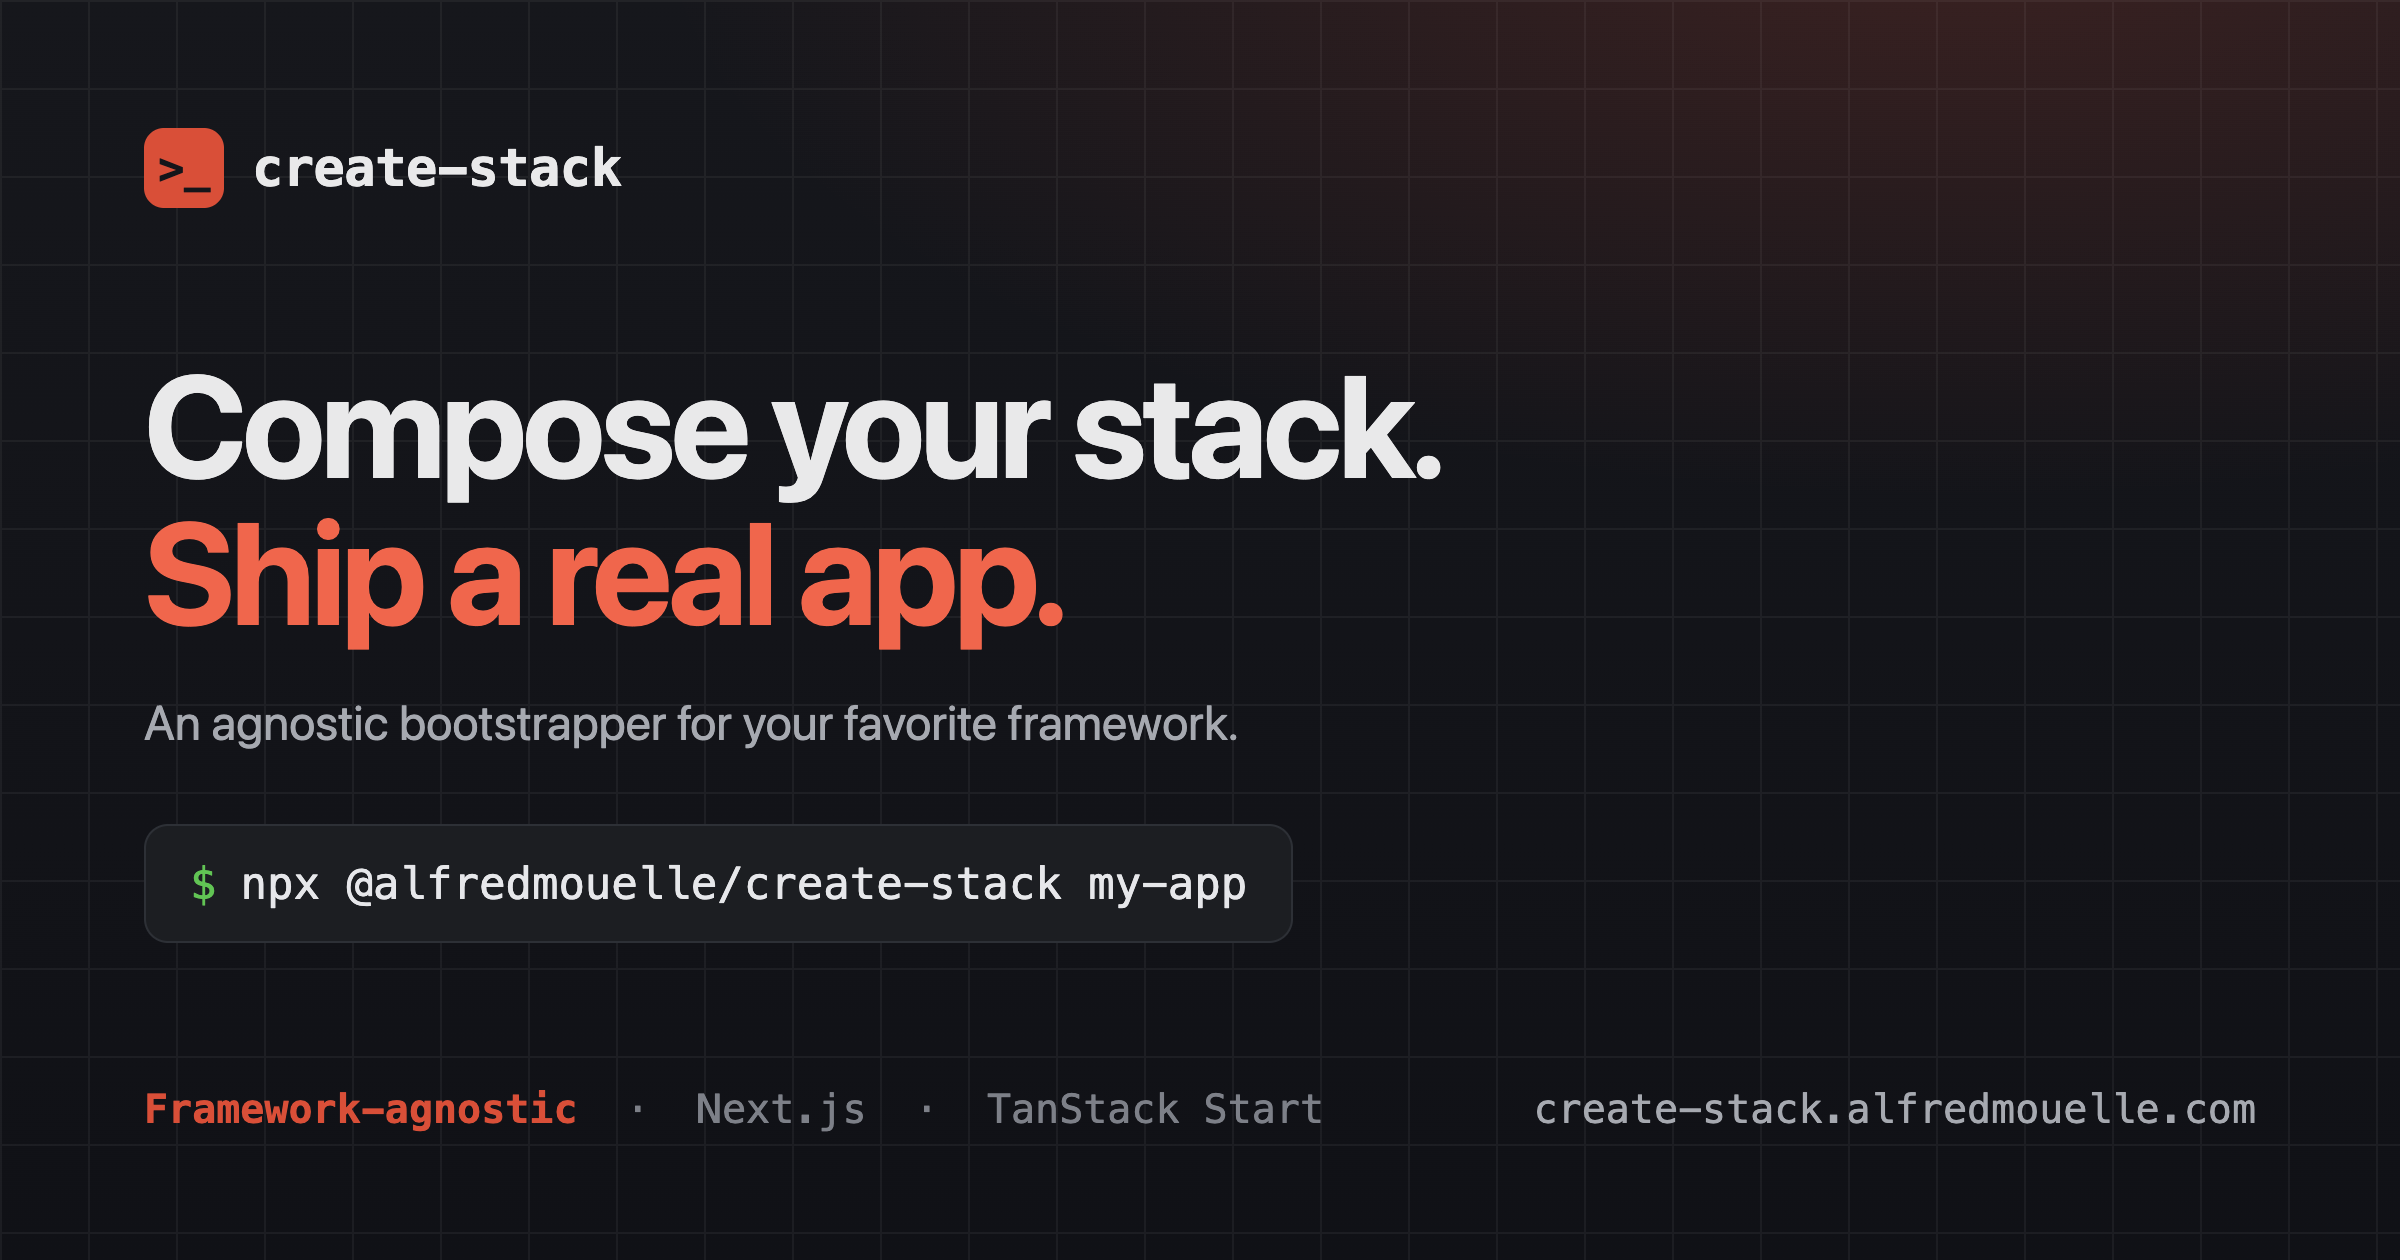
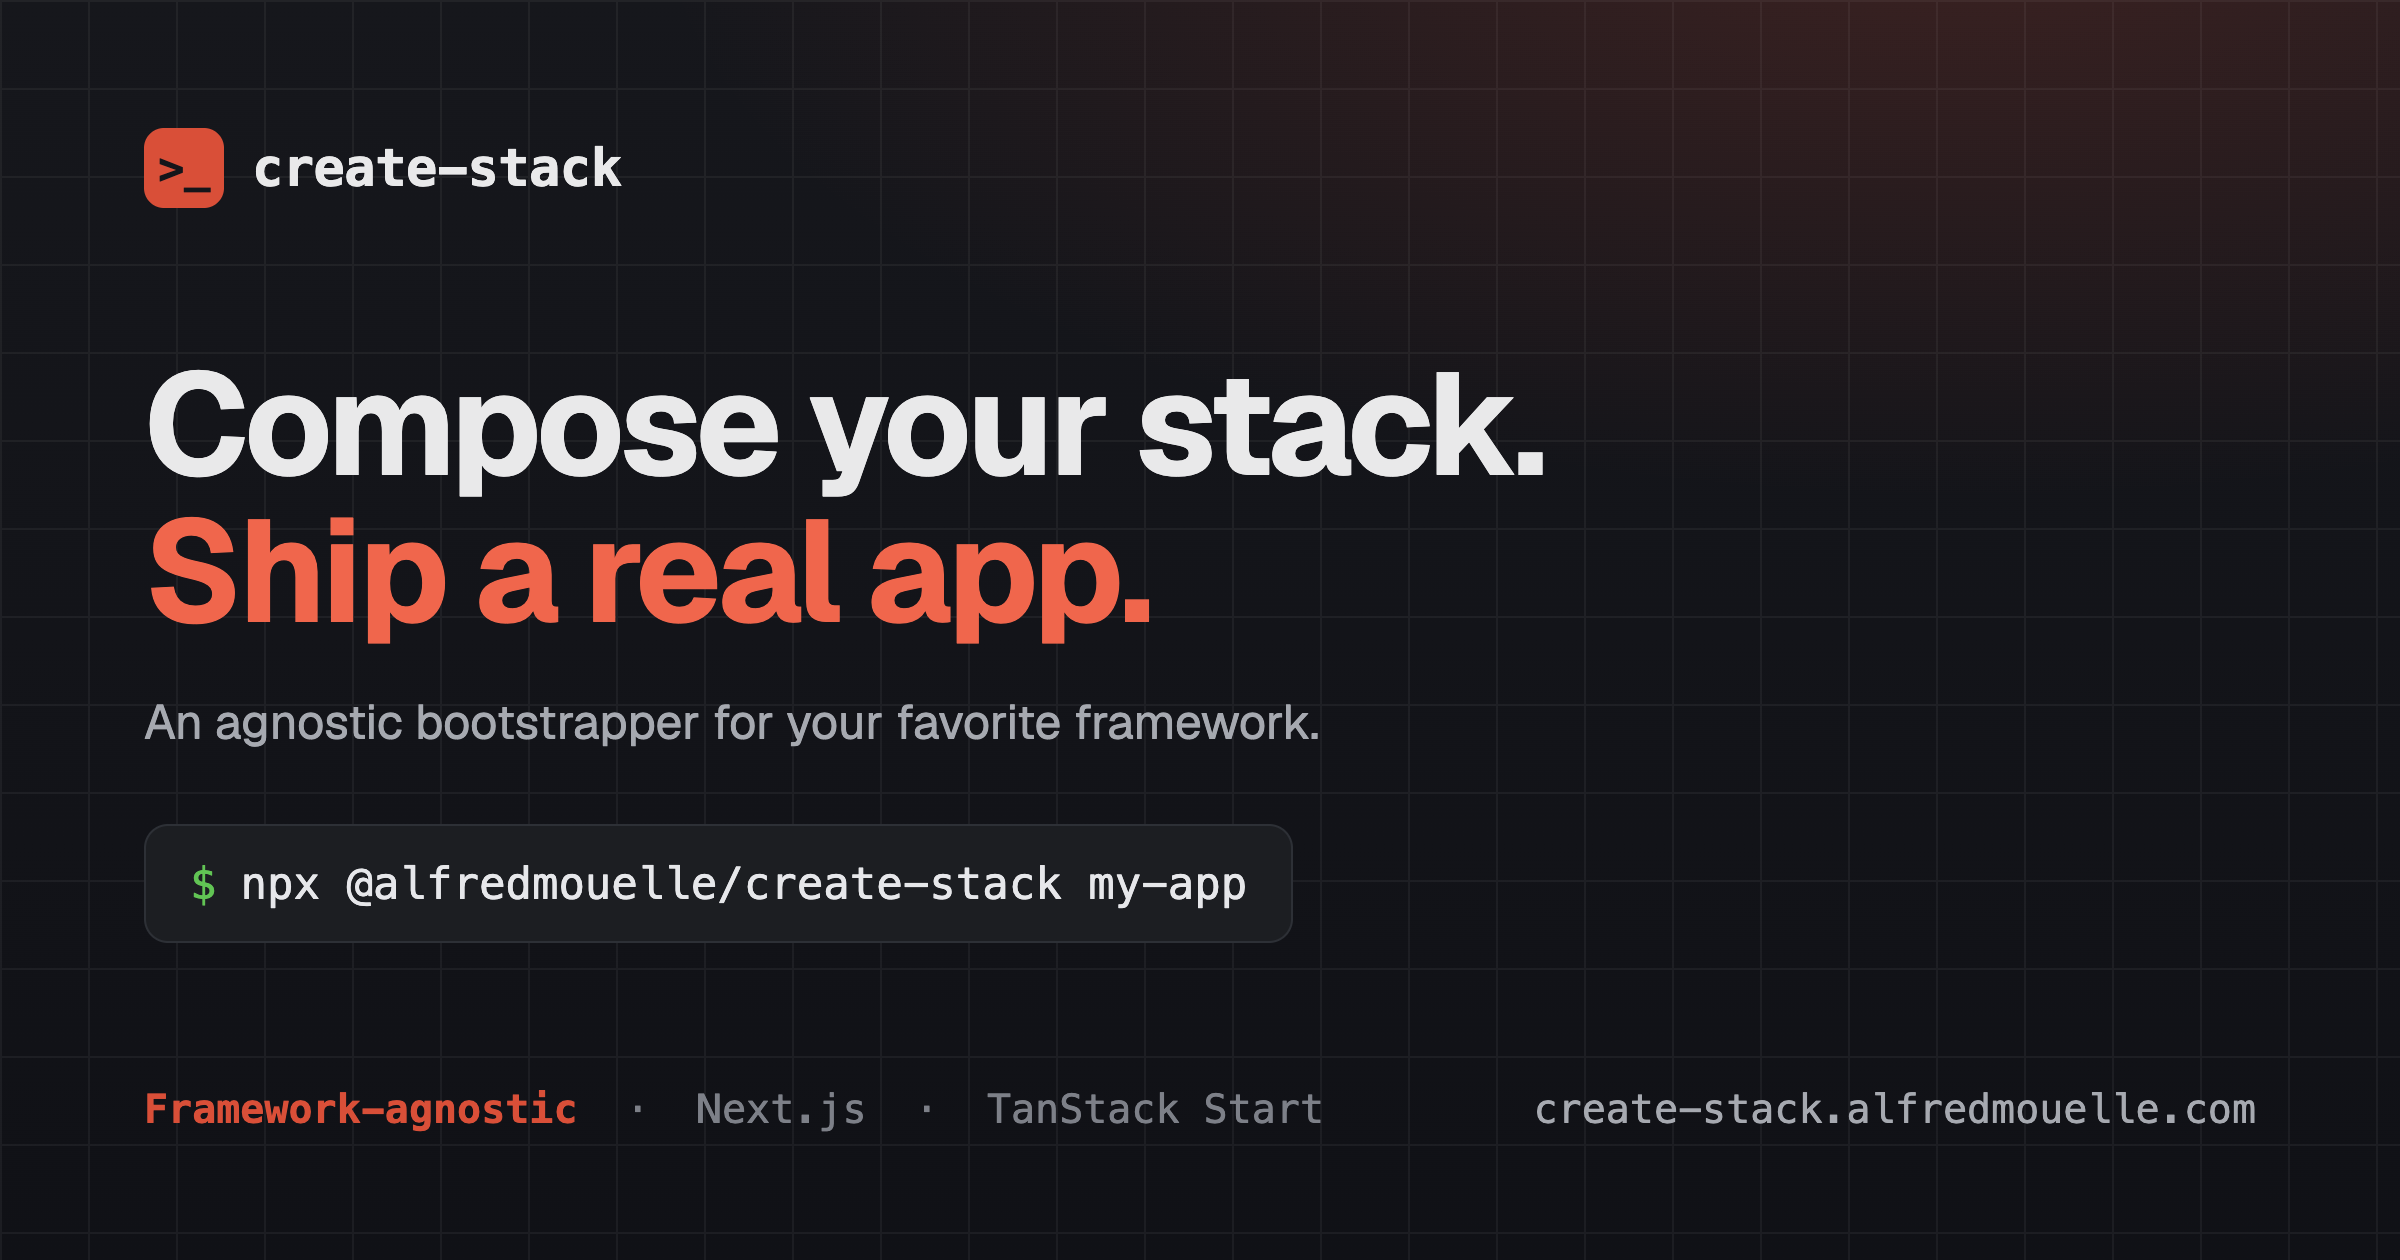
feat(site): adopt Geist and redesign the install block as a terminal card
Self-host Geist Variable (same woff2 as the base apps) for the site and re-render the OG image with it. Rebuild the hero install command as a dark terminal card matching the wizard and OG: >_ Terminal header, a package-manager dropdown (pnpm/bun/yarn/npm with a check), a copy button revealed on hover (always visible on touch) with a green copied confirmation.

Changed region(s): [[0.0625, 0.2786, 0.6562, 0.5262], [0.0625, 0.5571, 0.5625, 0.5881], [0.0625, 0.2786, 0.0938, 0.3095]]

diff --git a/site/index.html b/site/index.html
@@ -10,6 +10,7 @@
 <meta name="author" content="Alfred MOUELLE">
 <meta name="theme-color" content="#d94f38">
 <link rel="canonical" href="https://create-stack.alfredmouelle.com/">
+<link rel="preload" href="/fonts/geist-latin-wght-normal.woff2" as="font" type="font/woff2" crossorigin>
 <meta property="og:title" content="create-stack: an agnostic bootstrapper for your favorite framework">
 <meta property="og:description" content="Bootstrap a real, fully-wired app for your framework. Compose your stack, ship a real app.">
 <meta property="og:type" content="website">
@@ -41,6 +42,17 @@
 }
 </script>
 <style>
+  /* Geist Variable, self-hosted to match the scaffolded base apps (@fontsource-variable/geist). */
+  @font-face {
+    font-family: "Geist Variable"; font-style: normal; font-display: swap; font-weight: 100 900;
+    src: url("/fonts/geist-latin-wght-normal.woff2") format("woff2-variations");
+    unicode-range: U+0000-00FF,U+0131,U[phone redacted],U+02BB-02BC,U+02C6,U+02DA,U+02DC,U+0304,U+0308,U+0329,U+2000-206F,U+20AC,U+2122,U+2191,U+2193,U+2212,U+2215,U+FEFF,U+FFFD;
+  }
+  @font-face {
+    font-family: "Geist Variable"; font-style: normal; font-display: swap; font-weight: 100 900;
+    src: url("/fonts/geist-latin-ext-wght-normal.woff2") format("woff2-variations");
+    unicode-range: U+0100-02BA,U+02BD-02C5,U+02C7-02CC,U+02CE-02D7,U+02DD-02FF,U+0304,U+0308,U+0329,U+1D00-1DBF,U+1E00-1E9F,U+1EF2-1EFF,U+2020,U+20A0-20AB,U+20AD-20C0,U+2113,U+2C60-2C7F,U+A720-A7FF;
+  }
   :root {
     --bg: #f7f6f3; --surface: #ffffff; --surface-2: #efeee9; --line: #e0ded7;
     --line-strong: #c9c6bd; --ink: #21232a; --ink-2: #565963; --ink-3: #8a8d95;
@@ -48,7 +60,7 @@
     --good: #3f8f5f; --good-soft: #e3f0e8; --adjust: #b7791f; --adjust-soft: #f6ecd6;
     --off: #a7a9af; --radius: 12px;
     --mono: "SF Mono", SFMono-Regular, ui-monospace, "Cascadia Code", "Cascadia Mono", Menlo, Consolas, monospace;
-    --sans: ui-sans-serif, system-ui, -apple-system, "Segoe UI", Roboto, Helvetica, sans-serif;
+    --sans: "Geist Variable", ui-sans-serif, system-ui, -apple-system, "Segoe UI", Roboto, Helvetica, sans-serif;
   }
   @media (prefers-color-scheme: dark) {
     :root {
@@ -91,20 +103,34 @@
   .hero h1 { font-size: clamp(34px, 5.4vw, 60px); line-height: 1.02; margin: 22px auto 0; max-width: 15ch; }
   .hero h1 em { font-style: normal; color: var(--accent); }
   .hero p.lede { font-size: clamp(15px, 1.9vw, 18px); color: var(--ink-2); max-width: 60ch; margin: 20px auto 0; }
-  .install { position: relative; display: flex; align-items: stretch; margin: 30px auto 0; width: 580px; max-width: 100%; border: 1px solid var(--line-strong); border-radius: 11px; background: var(--surface); box-shadow: 0 1px 0 rgba(0, 0, 0, 0.03); }
-  .install code { flex: 1; min-width: 0; font-family: var(--mono); font-size: 14px; padding: 13px 16px; color: var(--ink); display: flex; align-items: center; gap: 9px; white-space: nowrap; overflow-x: auto; }
-  .install code .dollar { color: var(--ink-3); }
-  .install-copy { flex: none; border: none; border-left: 1px solid var(--line); background: var(--surface-2); color: var(--ink-2); padding: 0 15px; font-size: 12.5px; border-radius: 0 10px 10px 0; }
-  .install-copy:hover { color: var(--accent); background: var(--accent-soft); }
-  .pm-select { position: relative; display: flex; }
-  .pm-trigger { flex: none; width: 84px; border: none; border-right: 1px solid var(--line); background: var(--surface-2); color: var(--ink); font-family: var(--mono); font-size: 13px; padding: 0 13px; display: flex; align-items: center; justify-content: space-between; gap: 6px; border-radius: 10px 0 0 10px; }
-  .pm-trigger .caret { color: var(--ink-3); font-size: 10px; }
-  .pm-trigger:hover { color: var(--accent); }
-  .pm-menu { position: absolute; top: calc(100% + 6px); left: 0; z-index: 10; min-width: 130px; background: var(--surface); border: 1px solid var(--line-strong); border-radius: 10px; padding: 6px; display: flex; flex-direction: column; gap: 2px; box-shadow: 0 14px 34px -14px rgba(0, 0, 0, 0.45); }
+  .install { margin: 30px auto 0; width: 580px; max-width: 100%; }
+  /* Dark terminal card, matching the wizard below + the OG image (one terminal language). */
+  .term-card { border: 1px solid #2a2c33; border-radius: 13px; background: #14151a; box-shadow: 0 20px 50px -30px rgba(0, 0, 0, 0.6); text-align: left; }
+  .term-card-head { display: flex; align-items: center; justify-content: space-between; padding: 12px 16px; border-bottom: 1px solid #2a2c33; background: #1a1c22; border-radius: 12px 12px 0 0; }
+  .term-card-title { display: flex; align-items: center; gap: 10px; font-family: var(--mono); font-size: 14px; color: #7d8088; }
+  .term-card-title .cs-prompt { color: #e9e9ea; font-weight: 700; letter-spacing: -0.03em; }
+  .term-card-body { display: flex; align-items: center; gap: 10px; padding: 14px 16px; }
+  .term-card-body code { flex: 1; min-width: 0; font-family: var(--mono); font-size: 14px; color: #e9e9ea; display: flex; align-items: center; gap: 9px; white-space: nowrap; overflow-x: auto; scrollbar-width: none; }
+  .term-card-body code::-webkit-scrollbar { display: none; }
+  .term-card-body code .dollar { color: #6f7178; }
+  .install-copy { flex: none; display: inline-flex; align-items: center; justify-content: center; width: 34px; height: 34px; border: 1px solid #2d3036; background: transparent; color: #a6a9b0; border-radius: 8px; opacity: 1; transition: opacity 0.12s ease, color 0.12s, border-color 0.12s, background 0.12s; }
+  .install-copy:hover { color: var(--accent); border-color: var(--accent); background: rgba(217, 79, 56, 0.14); }
+  .install-copy.copied, .install-copy.copied:hover { opacity: 1; color: #61c454; border-color: rgba(97, 196, 84, 0.45); background: rgba(97, 196, 84, 0.14); }
+  /* Reveal on hover for pointer devices; keep it always visible on touch (no hover). */
+  @media (hover: hover) and (pointer: fine) {
+    .install-copy { opacity: 0; }
+    .term-card:hover .install-copy, .install-copy:focus-visible { opacity: 1; }
+  }
+  .pm-select { position: relative; }
+  .pm-trigger { display: inline-flex; align-items: center; gap: 6px; border: 1px solid #2d3036; background: #24262b; color: #e9e9ea; font-family: var(--mono); font-size: 13px; padding: 5px 10px; border-radius: 8px; }
+  .pm-trigger .caret { color: #7d8088; }
+  .pm-trigger:hover { border-color: #3b3e44; }
+  .pm-menu { position: absolute; top: calc(100% + 6px); right: 0; z-index: 10; min-width: 150px; background: #1c1e22; border: 1px solid #2d3036; border-radius: 10px; padding: 6px; display: flex; flex-direction: column; gap: 2px; box-shadow: 0 14px 34px -14px rgba(0, 0, 0, 0.6); }
   .pm-menu[hidden] { display: none; }
-  .pm-opt { text-align: left; border: none; background: transparent; color: var(--ink-2); font-family: var(--mono); font-size: 13px; padding: 8px 12px; border-radius: 7px; }
-  .pm-opt:hover { background: var(--surface-2); color: var(--ink); }
-  .pm-opt.on { color: var(--accent); font-weight: 600; }
+  .pm-opt { display: flex; align-items: center; gap: 8px; text-align: left; border: none; background: transparent; color: #a6a9b0; font-family: var(--mono); font-size: 13px; padding: 7px 10px; border-radius: 7px; }
+  .pm-opt .check { width: 14px; display: inline-flex; justify-content: center; color: var(--accent); }
+  .pm-opt:hover { background: #24262b; color: #fff; }
+  .pm-opt.on { color: #fff; font-weight: 600; }
   .hero .meta { margin-top: 16px; font-size: 12.5px; color: var(--ink-3); font-family: var(--mono); }
 
   /* section heading */
@@ -277,8 +303,11 @@
 
   // The exec form passes flags through cleanly for every package manager.
   const PM_EXEC = { npm: 'npx', yarn: 'yarn dlx', pnpm: 'pnpm dlx', bun: 'bunx' }
-  const PMS = ['npm', 'yarn', 'pnpm', 'bun']
+  const PMS = ['pnpm', 'bun', 'yarn', 'npm']
   const pmPrefix = () => PM_EXEC[state.pm] + ' @alfredmouelle/create-stack'
+  const COPY_ICON = '<svg width="15" height="15" viewBox="0 0 24 24" fill="none" stroke="currentColor" stroke-width="2" stroke-linecap="round" stroke-linejoin="round"><rect x="9" y="9" width="13" height="13" rx="2"/><path d="M5 15H4a2 2 0 0 1-2-2V4a2 2 0 0 1 2-2h9a2 2 0 0 1 2 2v1"/></svg>'
+  const CHECK_ICON = '<svg width="15" height="15" viewBox="0 0 24 24" fill="none" stroke="currentColor" stroke-width="2.4" stroke-linecap="round" stroke-linejoin="round"><path d="M20 6L9 17l-5-5"/></svg>'
+  const CHEVRON = '<svg class="caret" width="12" height="12" viewBox="0 0 24 24" fill="none" stroke="currentColor" stroke-width="2.2" stroke-linecap="round" stroke-linejoin="round"><path d="M6 9l6 6 6-6"/></svg>'
 
   // normalize(): faithful port of cli/lib/args.mjs
   function normalize(s) {
@@ -327,14 +356,24 @@
 
   let pmMenuOpen = false
   function renderInstall() {
-    const opts = PMS.map((pm) => '<button class="pm-opt' + (state.pm === pm ? ' on' : '') + '" role="option" aria-selected="' + (state.pm === pm) + '" data-pm="' + pm + '">' + pm + '</button>').join('')
+    const opts = PMS.map((pm) => {
+      const on = state.pm === pm
+      return '<button class="pm-opt' + (on ? ' on' : '') + '" role="option" aria-selected="' + on + '" data-pm="' + pm + '"><span class="check">' + (on ? '✓' : '') + '</span>' + pm + '</button>'
+    }).join('')
     document.getElementById('install').innerHTML =
+      '<div class="term-card">' +
+      '<div class="term-card-head">' +
+      '<span class="term-card-title"><span class="cs-prompt">&gt;_</span> Terminal</span>' +
       '<div class="pm-select">' +
-      '<button class="pm-trigger" data-pm-toggle aria-haspopup="listbox" aria-expanded="' + pmMenuOpen + '">' + state.pm + '<span class="caret">▾</span></button>' +
+      '<button class="pm-trigger" data-pm-toggle aria-haspopup="listbox" aria-expanded="' + pmMenuOpen + '">' + state.pm + CHEVRON + '</button>' +
       '<div class="pm-menu" role="listbox"' + (pmMenuOpen ? '' : ' hidden') + '>' + opts + '</div>' +
       '</div>' +
+      '</div>' +
+      '<div class="term-card-body">' +
       '<code><span class="dollar">$</span> ' + esc(pmPrefix() + ' my-app') + '</code>' +
-      '<button class="install-copy" data-copy-install>Copy</button>'
+      '<button class="install-copy" data-copy-install aria-label="Copy command">' + COPY_ICON + '</button>' +
+      '</div>' +
+      '</div>'
   }
 
   const AXES = [
@@ -394,7 +433,14 @@
     const cap = e.target.closest('[data-cap]'); if (cap) { setCap(cap.dataset.cap, cap.dataset.adapter); return }
     const set = e.target.closest('[data-set]'); if (set) { setAxis(set.dataset.set, set.dataset.val === 'true' ? true : set.dataset.val === 'false' ? false : set.dataset.val); return }
     if (e.target.closest('[data-copy-cmd]')) { copyText(buildCommand(state).plain); return }
-    if (e.target.closest('[data-copy-install]')) { copyText(pmPrefix() + ' my-app'); return }
+    const copyBtn = e.target.closest('[data-copy-install]')
+    if (copyBtn) {
+      copyText(pmPrefix() + ' my-app')
+      copyBtn.classList.add('copied'); copyBtn.innerHTML = CHECK_ICON
+      clearTimeout(copyBtn._t)
+      copyBtn._t = setTimeout(() => { copyBtn.classList.remove('copied'); copyBtn.innerHTML = COPY_ICON }, 1300)
+      return
+    }
   })
   document.addEventListener('keydown', (e) => { if (e.key === 'Escape' && pmMenuOpen) { pmMenuOpen = false; renderInstall() } })
 

diff --git a/site/og-image.html b/site/og-image.html
@@ -4,6 +4,10 @@
     <meta charset="utf-8">
     <style>
     /* Source for site/og-image.png (1200x630). Render: open in Chrome at 1200x630, screenshot. */
+    @font-face {
+      font-family: "Geist Variable"; font-style: normal; font-display: swap; font-weight: 100 900;
+      src: url("/fonts/geist-latin-wght-normal.woff2") format("woff2-variations");
+    }
     * {
       margin: 0;
       box-sizing: border-box;
@@ -67,7 +71,7 @@
       z-index: 1;
     }
     h1 {
-      font-family: ui-sans-serif, system-ui, -apple-system, "Segoe UI", Roboto, sans-serif;
+      font-family: "Geist Variable", ui-sans-serif, system-ui, -apple-system, "Segoe UI", Roboto, sans-serif;
       font-size: 72px;
       line-height: 1.02;
       letter-spacing: -0.03em;
@@ -83,7 +87,7 @@
       color: #a6a9b0;
       max-width: 40ch;
       line-height: 1.4;
-      font-family: ui-sans-serif, system-ui, sans-serif;
+      font-family: "Geist Variable", ui-sans-serif, system-ui, sans-serif;
     }
     .term {
       margin-top: 34px;